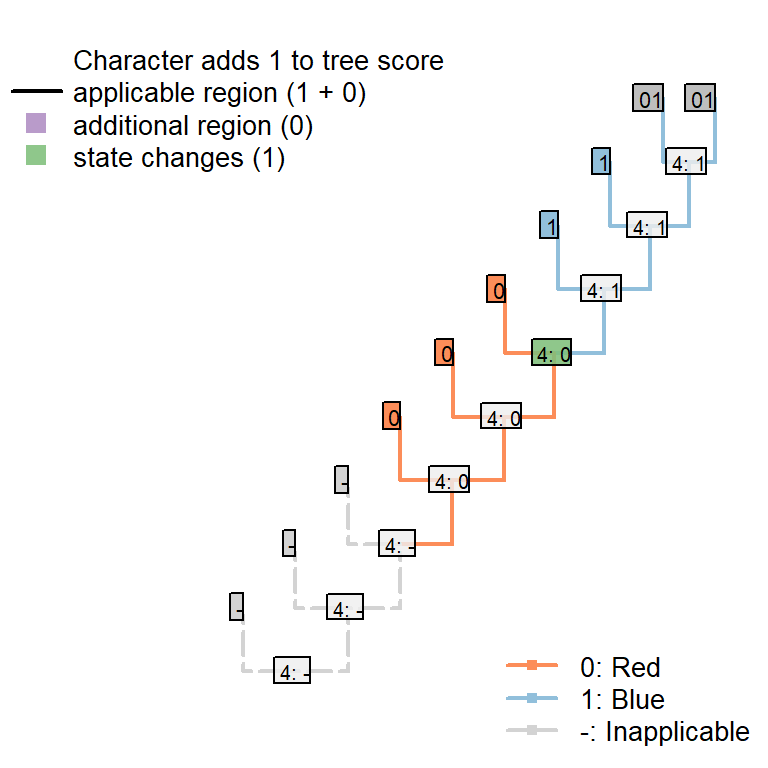
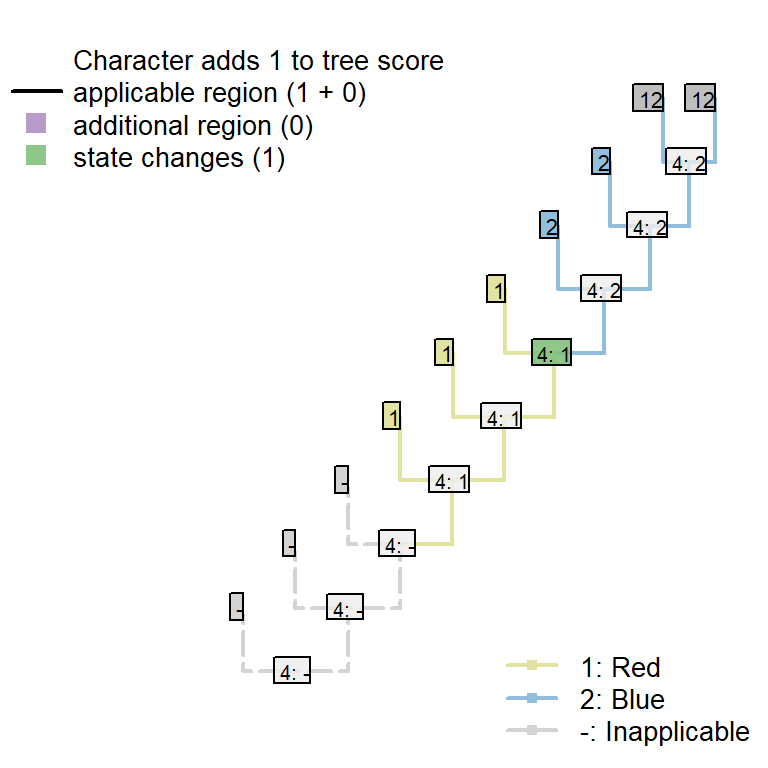
Use 1/2 in place of 0/1 for transformational character tokens

diff --git a/inst/gitbook/_book/ambiguity.html b/inst/gitbook/_book/ambiguity.html
@@ -25,7 +25,7 @@
 <meta name="author" content="Martin Brazeau (m.brazeau@imperial.ac.uk), Thomas Guillerme (guillert@tcd.ie) and Martin Smith (martin.smith@durham.ac.uk)">
 
 
-<meta name="date" content="2018-10-02">
+<meta name="date" content="2018-10-03">
 
   <meta name="viewport" content="width=device-width, initial-scale=1">
   <meta name="apple-mobile-web-app-capable" content="yes">
@@ -244,31 +244,31 @@ coded accordingly.</p>
 <p>For example:</p>
 <blockquote>
 <p>Tail: (0), absent; (1), present</p>
-<p>Tail margin: (0), smooth; (1), serrated.</p>
+<p>Tail margin: (1), smooth; (2), serrated.</p>
 </blockquote>
 <p>Assume that the tail margin must either be smooth or serrated, and there is no
 reason to assume that either state is ancestral (i.e. the character is strictly
-transformational). Tail margin should then be coded as <code>{01}</code>: i.e. the tail
-is known to have taken one of the two states 0 or 1.</p>
+transformational). Tail margin should then be coded as <code>{12}</code>: i.e. the tail
+is known to have taken one of the two states 1 or 2.</p>
 </div>
 <div id="subordinate-character-may-have-unobserved-states" class="section level3">
 <h3><span class="header-section-number">5.2.2</span> Subordinate character may have unobserved states</h3>
 <p>A more complicated situation arises where a subordinate character may have
 unobserved states, as with</p>
 <blockquote>
-<p>Tail colour: (0), red; (1), blue.</p>
+<p>Tail colour: (1), red; (2), blue.</p>
 </blockquote>
 <p>A taxon that is known to have a tail, but whose tail colour is uncertain, should
 generally be coded as <code>?</code>.</p>
-<p>Coding it as <code>{01}</code> would be appropriate if the tail was
-known to certainly be homologous with other tails in the dataset, in which case
+<p>Coding it as <code>{12}</code> would be appropriate if the tail was known with preternatural
+certainty to be homologous with other tails in the dataset, in which case
 it would be most parsimonious to assume that the tail colour is the same colour
 as the ancestor of the tip, which was necessarily either red or blue.</p>
 <p><img src="Inapplicable_data_files/figure-html/unnamed-chunk-62-1.png" width="384" /></p>
 <p>But if, as will more often be the case, homology of the tails is not known
 <em>a priori</em>, then it is possible that this taxon has a tail
 that is not homologous with any other tail whose colour has been observed.</p>
-<p>In this case, coding the tail colour as <code>{01}</code> denotes that the tail is the same
+<p>In this case, coding the tail colour as <code>{12}</code> denotes that the tail is the same
 colour as a tail that has already been observed. This means that the independent
 origin of the tail also represents an independent
 origin of this particular colour – and hence an instance of homoplasy.</p>
@@ -306,13 +306,13 @@ tail is known to be present, ambiguous, or known to be absent:</p>
 <td align="left">0</td>
 </tr>
 <tr class="even">
-<td>Tail margin: (0), smooth; (1), serrated.</td>
+<td>Tail margin: (1), smooth; (2), serrated.</td>
 <td align="left">{01}</td>
 <td align="left">?</td>
 <td align="left">-</td>
 </tr>
 <tr class="odd">
-<td>Tail colour: (0), red; (1), blue.</td>
+<td>Tail colour: (1), red; (2), blue.</td>
 <td align="left">?</td>
 <td align="left">?</td>
 <td align="left">-</td>

diff --git a/inst/gitbook/_book/index.html b/inst/gitbook/_book/index.html
@@ -25,7 +25,7 @@
 <meta name="author" content="Martin Brazeau (m.brazeau@imperial.ac.uk), Thomas Guillerme (guillert@tcd.ie) and Martin Smith (martin.smith@durham.ac.uk)">
 
 
-<meta name="date" content="2018-10-02">
+<meta name="date" content="2018-10-03">
 
   <meta name="viewport" content="width=device-width, initial-scale=1">
   <meta name="apple-mobile-web-app-capable" content="yes">
@@ -219,7 +219,7 @@ code span.in { color: #60a0b0; font-weight: bold; font-style: italic; } /* Infor
 <div id="header">
 <h1 class="title">Inapplicable data</h1>
 <h4 class="author"><em>Martin Brazeau (<a href="mailto:m.brazeau@imperial.ac.uk">m.brazeau@imperial.ac.uk</a>), Thomas Guillerme (<a href="mailto:guillert@tcd.ie">guillert@tcd.ie</a>) and Martin Smith (<a href="mailto:martin.smith@durham.ac.uk">martin.smith@durham.ac.uk</a>)</em></h4>
-<h4 class="date"><em>2018-10-02</em></h4>
+<h4 class="date"><em>2018-10-03</em></h4>
 </div>
 <div id="inapplicable-data-in-a-parsimony-setting" class="section level1 unnumbered">
 <h1>Inapplicable data in a parsimony setting</h1>

diff --git a/inst/gitbook/_book/coding.html b/inst/gitbook/_book/coding.html
@@ -25,7 +25,7 @@
 <meta name="author" content="Martin Brazeau (m.brazeau@imperial.ac.uk), Thomas Guillerme (guillert@tcd.ie) and Martin Smith (martin.smith@durham.ac.uk)">
 
 
-<meta name="date" content="2018-10-02">
+<meta name="date" content="2018-10-03">
 
   <meta name="viewport" content="width=device-width, initial-scale=1">
   <meta name="apple-mobile-web-app-capable" content="yes">

diff --git a/inst/gitbook/_book/examples.html b/inst/gitbook/_book/examples.html
@@ -25,7 +25,7 @@
 <meta name="author" content="Martin Brazeau (m.brazeau@imperial.ac.uk), Thomas Guillerme (guillert@tcd.ie) and Martin Smith (martin.smith@durham.ac.uk)">
 
 
-<meta name="date" content="2018-10-02">
+<meta name="date" content="2018-10-03">
 
   <meta name="viewport" content="width=device-width, initial-scale=1">
   <meta name="apple-mobile-web-app-capable" content="yes">

diff --git a/inst/gitbook/_book/fitch.html b/inst/gitbook/_book/fitch.html
@@ -25,7 +25,7 @@
 <meta name="author" content="Martin Brazeau (m.brazeau@imperial.ac.uk), Thomas Guillerme (guillert@tcd.ie) and Martin Smith (martin.smith@durham.ac.uk)">
 
 
-<meta name="date" content="2018-10-02">
+<meta name="date" content="2018-10-03">
 
   <meta name="viewport" content="width=device-width, initial-scale=1">
   <meta name="apple-mobile-web-app-capable" content="yes">

diff --git a/inst/gitbook/_book/global.html b/inst/gitbook/_book/global.html
@@ -25,7 +25,7 @@
 <meta name="author" content="Martin Brazeau (m.brazeau@imperial.ac.uk), Thomas Guillerme (guillert@tcd.ie) and Martin Smith (martin.smith@durham.ac.uk)">
 
 
-<meta name="date" content="2018-10-02">
+<meta name="date" content="2018-10-03">
 
   <meta name="viewport" content="width=device-width, initial-scale=1">
   <meta name="apple-mobile-web-app-capable" content="yes">

diff --git a/inst/gitbook/_book/problems.html b/inst/gitbook/_book/problems.html
@@ -25,7 +25,7 @@
 <meta name="author" content="Martin Brazeau (m.brazeau@imperial.ac.uk), Thomas Guillerme (guillert@tcd.ie) and Martin Smith (martin.smith@durham.ac.uk)">
 
 
-<meta name="date" content="2018-10-02">
+<meta name="date" content="2018-10-03">
 
   <meta name="viewport" content="width=device-width, initial-scale=1">
   <meta name="apple-mobile-web-app-capable" content="yes">

diff --git a/inst/gitbook/_book/references.html b/inst/gitbook/_book/references.html
@@ -25,7 +25,7 @@
 <meta name="author" content="Martin Brazeau (m.brazeau@imperial.ac.uk), Thomas Guillerme (guillert@tcd.ie) and Martin Smith (martin.smith@durham.ac.uk)">
 
 
-<meta name="date" content="2018-10-02">
+<meta name="date" content="2018-10-03">
 
   <meta name="viewport" content="width=device-width, initial-scale=1">
   <meta name="apple-mobile-web-app-capable" content="yes">

diff --git a/inst/gitbook/_book/solution.html b/inst/gitbook/_book/solution.html
@@ -25,7 +25,7 @@
 <meta name="author" content="Martin Brazeau (m.brazeau@imperial.ac.uk), Thomas Guillerme (guillert@tcd.ie) and Martin Smith (martin.smith@durham.ac.uk)">
 
 
-<meta name="date" content="2018-10-02">
+<meta name="date" content="2018-10-03">
 
   <meta name="viewport" content="width=device-width, initial-scale=1">
   <meta name="apple-mobile-web-app-capable" content="yes">
